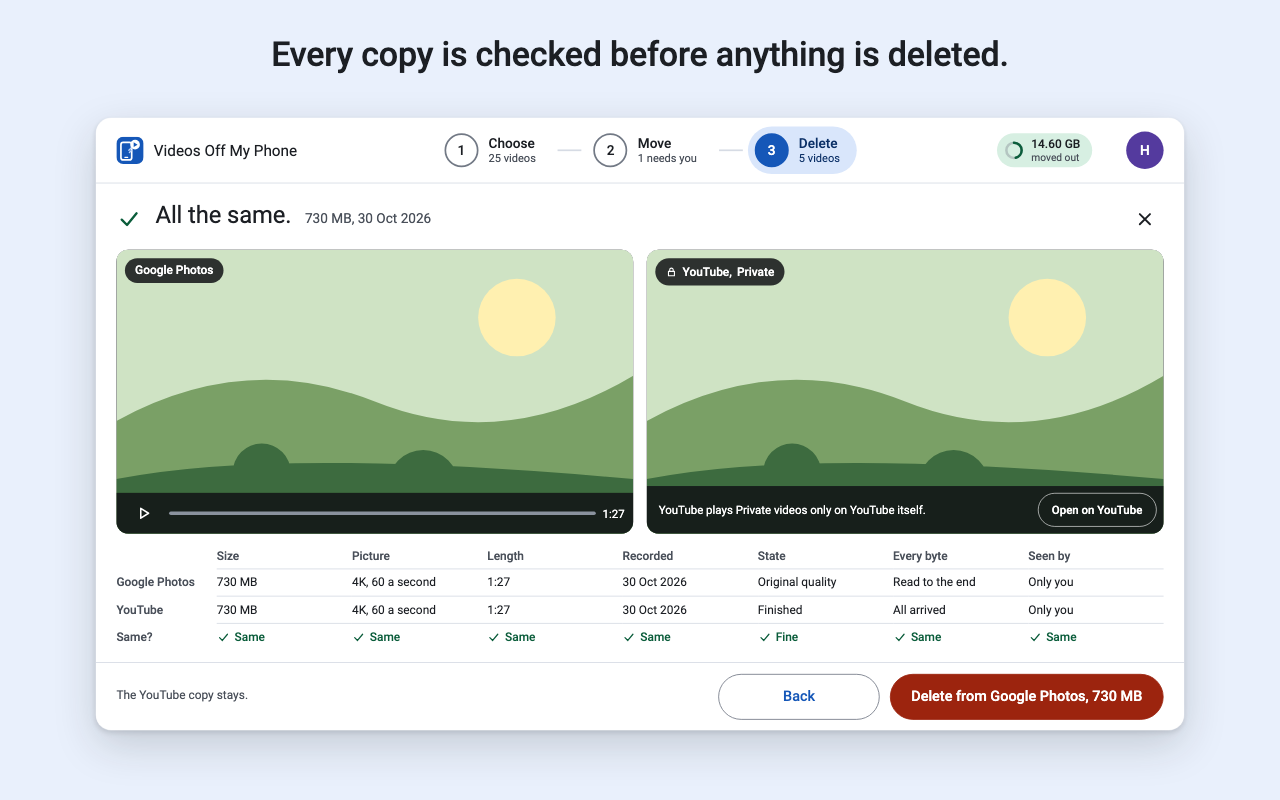
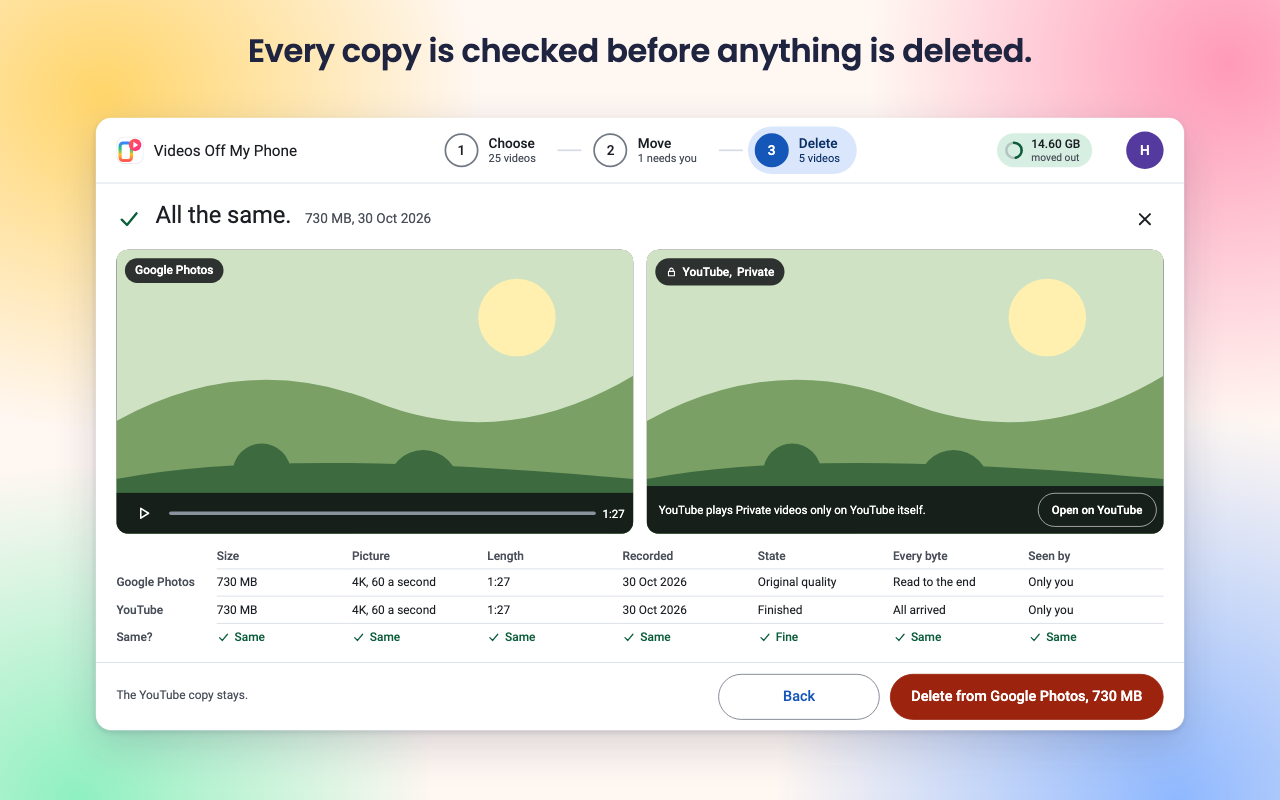
RELEASE: store item ID

Changed region(s): [[0.0, 0.0, 1.0, 0.5], [0.7188, 0.7188, 1.0, 1.0], [0.0, 0.6875, 0.2812, 1.0]]

diff --git a/docs/assets/site/privacy.html b/docs/assets/site/privacy.html
@@ -8,44 +8,65 @@
 <link rel="stylesheet" href="style.css">
 </head>
 <body>
-<header class="top"><div class="wrap"><a class="brand" href="./"><img src="icon.svg" width="32" height="32" alt="">Videos Off My Phone</a><nav><a href="./">Home</a><a href="REPO_URL"><mark class="fill">Source code</mark></a></nav></div></header>
+<header class="top"><div class="wrap"><a class="brand" href="./"><img src="icon.svg" width="32" height="32" alt="">Videos Off My Phone</a><nav><a href="./">Home</a><a href="https://github.com/shlomsh/videos-off-my-phone">Source code</a></nav></div></header>
 <main class="doc">
 <h1>Privacy policy</h1>
-<p class="note">Effective <mark class="fill">[date]</mark>. Videos Off My Phone is a free, open source Chrome extension made by <mark class="fill">[developer name]</mark>. Contact: <mark class="fill">[contact email]</mark>.</p>
+<p class="note">Effective 26 November 2026. Videos Off My Phone is a free, open source Chrome extension made by <mark class="fill">[developer name]</mark>, an independent developer. It is not made or endorsed by Google. Contact: <a href="https://github.com/shlomsh/videos-off-my-phone/issues">open an issue on GitHub</a>.</p>
 
 <h2>In short</h2>
-<p>The app runs in your browser. It has no server, no account and no analytics. Your videos go straight from Google Photos to your own YouTube channel. Nothing is sent to us, sold or shared.</p>
+<p>The app runs only in your own Chrome. It has no server, no account with us, no ads, no analytics and no tracking. Your videos go straight from Google Photos to your own YouTube channel through your browser. Nothing is sent to us, sold or shared. We never receive, see or store any of it.</p>
+
+<h2>Google Photos: how the app reaches it</h2>
+<p>Google Photos has no public interface for this. The app uses <strong>the same internal web calls the Google Photos website itself uses</strong>, from your own open, signed-in Google Photos tab, with your existing session there. It never sees, asks for or stores your Google password or cookies, and never sends them anywhere. Google can change these calls at any time; if they change, the app stops and deletes nothing.</p>
 
 <h2>What the app accesses, and why</h2>
 <table>
-<tr><th>What</th><th>Why</th></tr>
-<tr><td>Your signed-in Google Photos page (photos.google.com), in your own browser tab</td><td>To list your videos and their sizes, to read a video file so it can be uploaded, and to move an original to the Google Photos trash after you confirm it.</td></tr>
-<tr><td>YouTube, with your permission: upload videos (<code>youtube.upload</code>) and view your YouTube account (<code>youtube.readonly</code>)</td><td>To upload the videos you choose to your channel, with the visibility you choose, and to read their details back so the app can check that each copy is complete.</td></tr>
+<tr><th>What</th><th>From</th><th>Why</th></tr>
+<tr><td>Your list of videos: name, size, date, length, quality and preview picture</td><td>Google Photos, in your tab</td><td>To show your biggest videos so you can choose.</td></tr>
+<tr><td>Whether a video is in a shared album</td><td>Google Photos</td><td>Videos in shared albums are never deleted.</td></tr>
+<tr><td>The original video file</td><td>Google Photos</td><td>Streamed straight to YouTube. It is never saved to disk.</td></tr>
+<tr><td>The Google Photos trash list</td><td>Google Photos</td><td>To confirm that a delete really happened.</td></tr>
+<tr><td>Your YouTube channel name and id</td><td>YouTube, with your permission (<code>youtube.readonly</code>)</td><td>To show which channel you are signed in to, and to make sure every upload goes to that same channel.</td></tr>
+<tr><td>Details of the videos the app uploaded: visibility, size, resolution, processing state, recording day</td><td>YouTube (<code>youtube.readonly</code>)</td><td>To check the copy is complete before the app offers to delete the original.</td></tr>
 </table>
-<p>The app does not read your photos, messages, contacts or anything else. It never deletes anything on YouTube.</p>
+<p>The app does not read your photos, messages, contacts or anything else.</p>
+
+<h2>What the app changes</h2>
+<ul>
+<li><strong>On YouTube</strong> (<code>youtube.upload</code>): it uploads the videos you choose, with the file name as the title, the recording day, and the visibility you choose (Private, Unlisted or Public). It marks them “not made for kids”; you can change that in YouTube Studio. It cannot delete or change anything on YouTube.</li>
+<li><strong>In Google Photos</strong>: only after you confirm a video by name, it moves that video to the Google Photos trash, where you can restore it for 30 days. It never empties the trash and never makes or changes albums.</li>
+</ul>
 
 <h2>What is stored, and where</h2>
 <p>Only on your computer, in Chrome’s storage for this extension:</p>
 <ul>
-<li>For each video you moved or deleted: its Google Photos item id, its size and date, a checksum of the file, the YouTube video id, the visibility you chose, and the result of each check and delete.</li>
-<li>The name of your YouTube channel.</li>
-<li>The YouTube sign-in token, kept in Chrome’s memory for the session only.</li>
+<li>For each video you moved: its Google Photos item id, file name and size, a SHA-256 checksum of the file, the YouTube video id and channel id, the visibility you chose, when it happened, and the result of each check.</li>
+<li>For each video you deleted: its Google Photos id, file name and size, and whether the delete was confirmed from the trash.</li>
+<li>The videos you marked to delete without a copy, until you act on them.</li>
+<li>The name and id of your YouTube channel.</li>
+<li>The YouTube sign-in token, which lasts about an hour, kept in Chrome’s memory for the session only and never on disk.</li>
 </ul>
-<p>Removing the extension deletes all of this. Video files are never saved to disk; they pass through your browser while uploading.</p>
+<p>These records stop a video being uploaded twice or deleted twice. The app uses no cookies of its own and no third-party code.</p>
 
 <h2>Sharing</h2>
-<p>We do not collect, sell, rent or share your data. There are no ads and no tracking. Data moves only between your browser, Google Photos and YouTube, as you direct.</p>
+<p>We do not collect, sell, rent or share your data, because we receive none. There are no ads and no tracking. Data moves only between your browser, Google Photos and YouTube, as you direct.</p>
 
-<h2>Google API Services</h2>
-<p>Videos Off My Phone’s use and transfer of information received from Google APIs adheres to the <a href="https://developers.google.com/terms/api-services-user-data-policy">Google API Services User Data Policy</a>, including the Limited Use requirements.</p>
+<h2>Google API Services and Limited Use</h2>
+<p>Videos Off My Phone’s use of information received from Google APIs will adhere to the <a href="https://developer.chrome.com/docs/webstore/program-policies/limited-use">Chrome Web Store User Data Policy</a> and the <a href="https://developers.google.com/terms/api-services-user-data-policy">Google API Services User Data Policy</a>, including the Limited Use requirements. Data is used only to move, check and delete the videos you choose. It is never used for ads and never read by a person.</p>
 <p>This app uses YouTube API Services. By using it you agree to the <a href="https://www.youtube.com/t/terms">YouTube Terms of Service</a>. Google’s handling of your data is described in the <a href="https://policies.google.com/privacy">Google Privacy Policy</a>.</p>
-<p>You can remove the app’s access to your Google Account at any time on <a href="https://myaccount.google.com/permissions">Google’s third-party access page</a>.</p>
+
+<h2>Removing access and deleting your data</h2>
+<ul>
+<li>Remove the app’s access to your Google Account at any time on <a href="https://myaccount.google.com/permissions">Google’s third-party access page</a>. After that it can no longer upload or read anything on YouTube.</li>
+<li>Remove the extension in Chrome (<code>chrome://extensions</code>, then Remove) to delete everything it stored on your computer at once.</li>
+<li>Neither touches your videos on YouTube or in Google Photos. Manage those in YouTube Studio and Google Photos.</li>
+</ul>
 
 <h2>Children</h2>
 <p>The app is not directed at children under 13.</p>
 
 <h2>Changes</h2>
-<p>Changes to this policy are posted on this page, with a new effective date. The full history is in the public source code.</p>
+<p>Changes to this policy are posted on this page, with a new effective date. If the app ever needs to use your data in a new way, it will ask you first. The full history is in the public source code.</p>
 </main>
 <footer><div class="wrap"><span>Google Photos and YouTube are trademarks of Google LLC. This app is not made or endorsed by Google.</span><a href="./">Home</a></div></footer>
 </body>

diff --git a/docs/assets/site/index.html b/docs/assets/site/index.html
@@ -9,7 +9,7 @@
 <link rel="stylesheet" href="style.css">
 </head>
 <body>
-<header class="top"><div class="wrap"><a class="brand" href="./"><img src="icon.svg" width="32" height="32" alt="">Videos Off My Phone</a><nav><a href="privacy.html">Privacy</a><a href="REPO_URL"><mark class="fill">Source code</mark></a></nav></div></header>
+<header class="top"><div class="wrap"><a class="brand" href="./"><img src="icon.svg" width="32" height="32" alt="">Videos Off My Phone</a><nav><a href="privacy.html">Privacy</a><a href="https://github.com/shlomsh/videos-off-my-phone">Source code</a></nav></div></header>
 <main>
 <div class="hero wrap">
 <span class="chip">Free and open source</span>
@@ -20,7 +20,7 @@
 <div class="qbox qyt">Your YouTube channel<strong>Not part of it</strong></div>
 </div>
 <p class="lead">Videos Off My Phone moves your biggest videos from Google Photos to your own YouTube channel, in full original quality. It checks every copy, then deletes the originals after your yes. Your phone and your Google storage get the space back.</p>
-<div class="cta"><a class="btn" href="STORE_URL"><mark class="fill" style="background:none;padding:0">Add to Chrome</mark></a><a class="btn sec" href="REPO_URL">See the source code</a></div>
+<div class="cta"><a class="btn" href="STORE_URL"><mark class="fill" style="background:none;padding:0">Add to Chrome</mark></a><a class="btn sec" href="https://github.com/shlomsh/videos-off-my-phone">See the source code</a></div>
 <p class="note">For Chrome on a computer. No ads, no account with us, no server of ours.</p>
 </div>
 
@@ -39,8 +39,20 @@
 <div class="card"><h3>Google Photos</h3><p>It works in your own signed-in Google Photos tab: it lists your videos and their sizes, reads the video files to send them to YouTube, and moves an original to the trash only after you confirm it.</p></div>
 <div class="card"><h3>YouTube</h3><p>With your permission it uploads videos to your channel and reads their details back, to check that each copy is complete. It never deletes anything on YouTube.</p></div>
 <div class="card"><h3>Your data stays with you</h3><p>Videos go straight from Google to Google through your browser. The app keeps its notes on your computer only. There is no server of ours, no analytics and no ads.</p></div>
-<div class="card"><h3>Open source</h3><p>Every line is public, so anyone can check what it does. <a href="REPO_URL"><mark class="fill">Read the code</mark></a>.</p></div>
+<div class="card"><h3>Open source</h3><p>Every line is public, so anyone can check what it does. <a href="https://github.com/shlomsh/videos-off-my-phone">Read the code</a>.</p></div>
 </div>
+</div></section>
+
+<section><div class="wrap">
+<h2>Google sign-in, and Google Photos</h2>
+<p>The app asks Google for two YouTube permissions:</p>
+<ul>
+<li><strong>Manage your YouTube videos</strong> (<code>youtube.upload</code>): to upload the videos you choose.</li>
+<li><strong>View your YouTube account</strong> (<code>youtube.readonly</code>): to confirm your channel, and to check each uploaded copy before anything is deleted.</li>
+</ul>
+<p>Google Photos has no public interface for this, so the app uses the same internal web calls the Google Photos website uses, in your own open Google Photos tab, with your existing session there. It never sees your password. If Google changes those calls, the app stops and deletes nothing.</p>
+<p>The app uses YouTube API Services: by using it you agree to the <a href="https://www.youtube.com/t/terms">YouTube Terms of Service</a>. See also the <a href="https://policies.google.com/privacy">Google Privacy Policy</a> and our <a href="privacy.html">privacy policy</a>. You can remove the app’s access at any time on <a href="https://myaccount.google.com/permissions">Google’s third-party access page</a>.</p>
+<p>Videos Off My Phone’s use of information received from Google APIs will adhere to the Chrome Web Store User Data Policy and the Google API Services User Data Policy, including the Limited Use requirements.</p>
 </div></section>
 
 <section><div class="wrap">

diff --git a/docs/assets/site/style.css b/docs/assets/site/style.css
@@ -43,3 +43,4 @@ mark.fill{background:var(--fill);color:inherit;padding:0 4px;border-radius:4px}
 .doc p,.doc li{color:var(--ink)}
 .doc table{border-collapse:collapse;width:100%;font-size:15px}.doc th,.doc td{border:1px solid var(--line);padding:8px 10px;text-align:left;vertical-align:top}.doc th{background:var(--soft)}
 @media (max-width:700px){.quota{grid-template-columns:1fr}.arr{transform:rotate(90deg);justify-self:center}.steps,.grid2{grid-template-columns:1fr}nav{width:100%}}
+.doc td,.doc th{overflow-wrap:anywhere}

diff --git a/docs/assets/README.md b/docs/assets/README.md
@@ -1,13 +1,14 @@
 # Store and review assets: Videos Off My Phone (26 Nov 2026)
 
-Made by the design session. All pictures use invented sample data. No Google or YouTube logos are used; the mark is our own (a phone with a round play badge leaving it).
+Made by the design session. All pictures use invented sample data. No Google or YouTube logos are used; the mark is our own: a white tile, a phone outline in a four-colour gradient (blue, green, yellow, coral) and a pink-coral play badge leaving it. Chosen by the user on 26 Nov 2026 ("C, Rainbow phone"), replacing the dark blue mark.
 
 | File | Use |
 |---|---|
 | icon.svg | Master icon, 128 canvas with 16 px transparent padding (Chrome Web Store rule) |
-| icon-full.svg | Same mark with no padding, for small sizes and the site |
+| icon-full.svg | Same mark with no padding, for 48 px and up and the site |
+| icon-small.svg | Bolder version for 16 and 32 px (thicker phone, no dot or dash). Also the app header mark |
 | icon-128.png | Web Store icon and manifest `icons.128` |
-| icon-48.png, icon-32.png, icon-16.png | Manifest `icons` and `action.default_icon` |
+| icon-48.png, icon-32.png, icon-16.png | Manifest `icons` and `action.default_icon` (16 and 32 come from icon-small.svg) |
 | oauth-logo-120.png | OAuth consent screen app logo (120×120) |
 | screenshot-1-start.png … screenshot-5-done.png | Web Store screenshots, 1280×800 |
 | promo-440x280.png | Web Store small promo tile |
@@ -21,5 +22,7 @@ Check the privacy policy against the code before submitting. It was written from
 - the token is kept in session storage only;
 - no server.
 If the stored fields change (for example the stored visibility in 0.9.0), keep the list true.
-The app header on the canvas now uses the same mark (canvas version 39).
+The app header on the canvas uses icon-small.svg (canvas version 40). The extension header should use the same SVG; keep the gradient ids `vomS` and `vomB`.
+Colours, for the promo and any marketing: blue #3b82ff, green #1fc878, yellow #ffbf1f, coral #ff5b4f, pink #ff2f87, ink #1f2440, soft background #fff7f2 with colour glows. Heading font in promo images: Poppins 700 (only baked into images, never loaded by the extension). The app screens keep their own UI colours.
+`src/` holds the HTML that made the promo, marquee and screenshot frames.
 The screenshots show the "Free and open source" chip: submit them only once the repo is public.

diff --git a/RELEASE.md b/RELEASE.md
@@ -5,6 +5,8 @@
 2. Run end-to-end tests in your own Chrome, to see it works as expected. (Here, now that 0.11.0 is installed.)
 3. Bug fixing and polish.
 
+Store draft created (26 Nov 2026). Item ID `imkmnploomooalicacgniiicblmfclka`; its sign-in redirect is `https://imkmnploomooalicacgniiicblmfclka.chromiumapp.org/`. The store refuses a manifest `key`, so build uploads with `npm run pack`. The local copy keeps its old ID until you choose how records carry over (backup file, or finish first).
+
 Note for 1: the extension ID is pinned by `key` in manifest.json, and the Google sign-in client is tied to that ID. A Web Store item usually gets its own ID, so the sign-in setup may need a change for the store version.
 
 Last updated: 26 Nov 2026. Installed version: 0.11.0 (tested on stand-ins only; not yet used on the real account).
